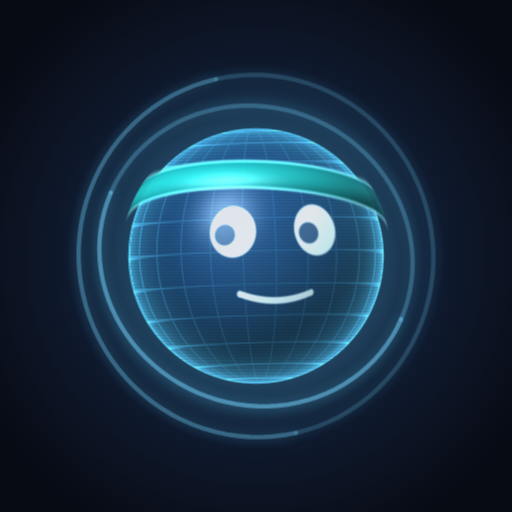
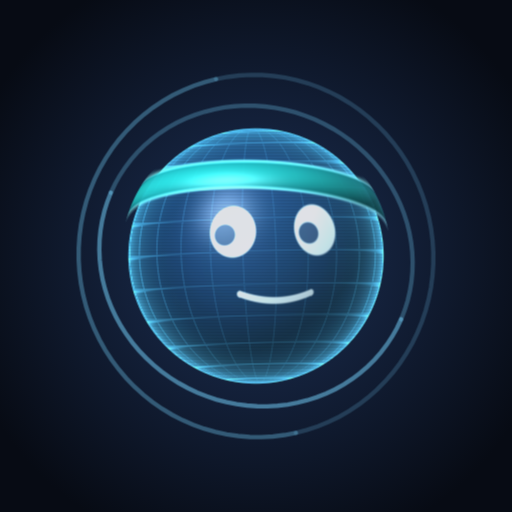
Diana sans halo lumineux autour d'elle
Claude-Session: https://claude.ai/code/session_01BJb94cWsbszTRT2q6MQSNS

Changed region(s): [[0.1562, 0.1875, 0.8125, 0.8125]]

diff --git a/src/diana3d.js b/src/diana3d.js
@@ -64,16 +64,12 @@ export function draw(canvas, state, buf) {
   const mood = MOODS[state.mood] || MOODS.happy;
   const px = 1 / R; // taille d'un pixel en unités de sphère
 
-  // 1) Halo cyan, puis anneaux, moitié arrière (cachée ensuite par la tête).
+  // 1) Anneaux, moitié arrière (cachée ensuite par la tête).
   ctx.clearRect(0, 0, W, H);
-  const halo = ctx.createRadialGradient(cx, cy, R * 0.9, cx, cy, R * 1.5);
-  halo.addColorStop(0, 'rgba(90, 215, 255, 0.22)'); halo.addColorStop(1, 'rgba(90, 215, 255, 0)');
-  ctx.fillStyle = halo; ctx.fillRect(0, 0, W, H);
   const rings = ringPaths(M, state.ring || 0);
   const strokeRing = (front) => {
     ctx.lineWidth = Math.max(1, S * 0.011);
     ctx.lineCap = 'round';
-    ctx.shadowColor = 'rgba(90, 215, 255, 0.8)'; ctx.shadowBlur = S * 0.03;
     for (const [r, pts, alpha] of rings) {
       ctx.strokeStyle = RING.replace('ALPHA', (alpha * (front ? 1 : 0.55)).toFixed(3));
       ctx.beginPath();
@@ -86,7 +82,6 @@ export function draw(canvas, state, buf) {
       }
       ctx.stroke();
     }
-    ctx.shadowBlur = 0;
   };
   strokeRing(false);
 

diff --git a/src/styles.css b/src/styles.css
@@ -639,7 +639,7 @@ span.qcam-side { background: none; }
 
 /* Coach Diana */
 /* Coach Diana : posée au-dessus du menu, bulle qui apparaît puis s'efface (rien ne bouge dans la page) */
-.diana-orb { display: block; filter: drop-shadow(0 4px 14px rgba(40, 170, 230, .35)); }
+.diana-orb { display: block; }
 .hello-wrap { display: flex; align-items: center; gap: 10px; min-width: 0; }
 .diana-dock { position: relative; flex: none; width: 54px; height: 54px; margin: -4px 0 -4px -6px; }
 .dd-face { width: 54px; height: 54px; padding: 0; border: 0; background: none; border-radius: 50%; cursor: pointer; -webkit-tap-highlight-color: transparent; transition: transform .15s; }
